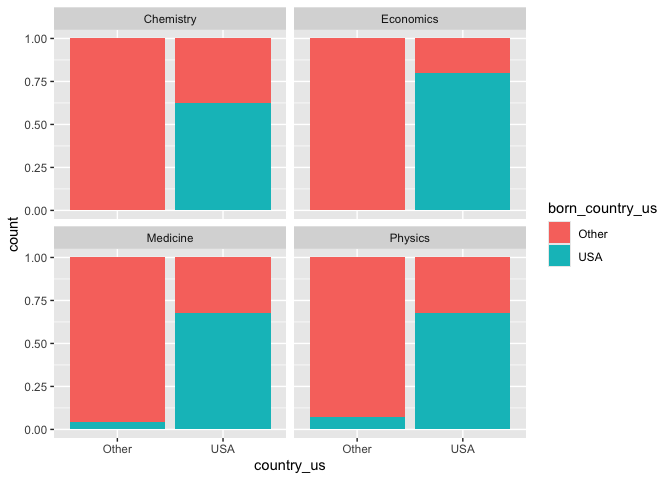
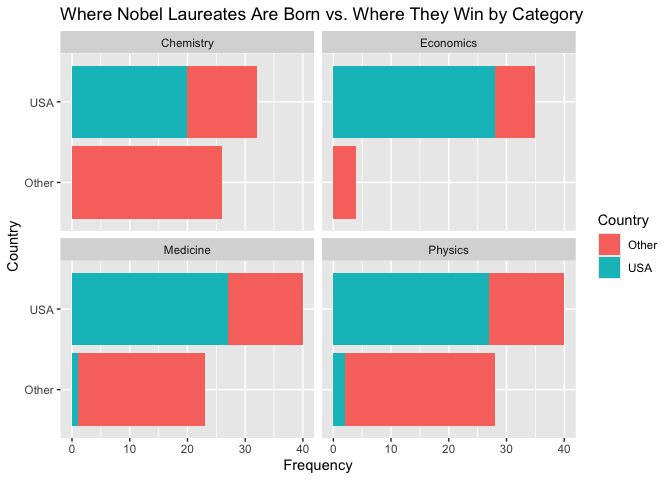
edited ex 4 and 5

diff --git a/lab-03.md b/lab-03.md
@@ -56,11 +56,11 @@ nobel_living_science <- nobel_living %>%
 
 ``` r
 nobel_living_science %>% 
-  ggplot(aes(x = category, fill = country_us)) + 
-  geom_bar(position = "fill") + 
-  labs(title = "Category of Nobel Prize vs. Location Won", 
-       subtitle = "where Nobel laureates were based when they won", 
-       x = "Category", 
+  ggplot(aes(x = country_us, fill = country_us)) + 
+  geom_bar() + 
+  facet_wrap(~category) +
+  labs(title = "Where Nobel Laureates Win their Awards by Category", 
+       x = "Country", 
        y = "Frequency", 
        fill = "Country"
   ) + 
@@ -92,8 +92,15 @@ born_country_us %>% count(born_country_us)
 ### Exercise 5
 
 ``` r
-# still need to fix this
-born_country_us %>% ggplot() + geom_bar(aes(x = country_us, fill = born_country_us), position = "fill") + facet_wrap(~category)
+born_country_us %>% ggplot() + 
+  geom_bar(aes(x = country_us, fill = born_country_us)) + 
+  facet_wrap(~category) + 
+  labs(title = "Where Nobel Laureates Are Born vs. Where They Win by Category", 
+       x = "Country", 
+       y = "Frequency", 
+       fill = "Country"
+  ) +
+  coord_flip()
 ```
 
 ![](lab-03_files/figure-gfm/add_to_bar_plot-1.png)<!-- -->
